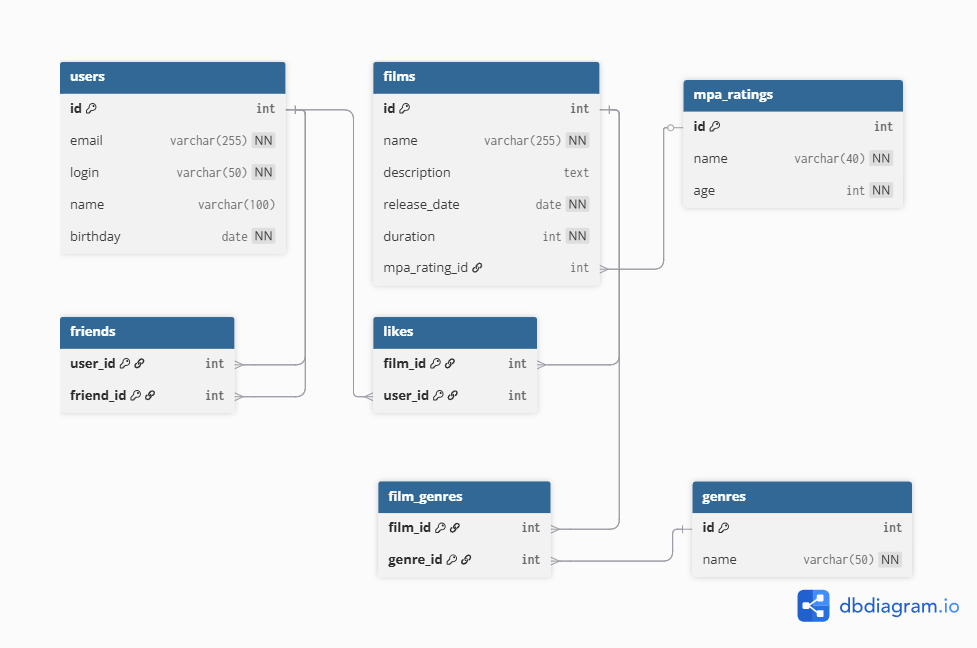
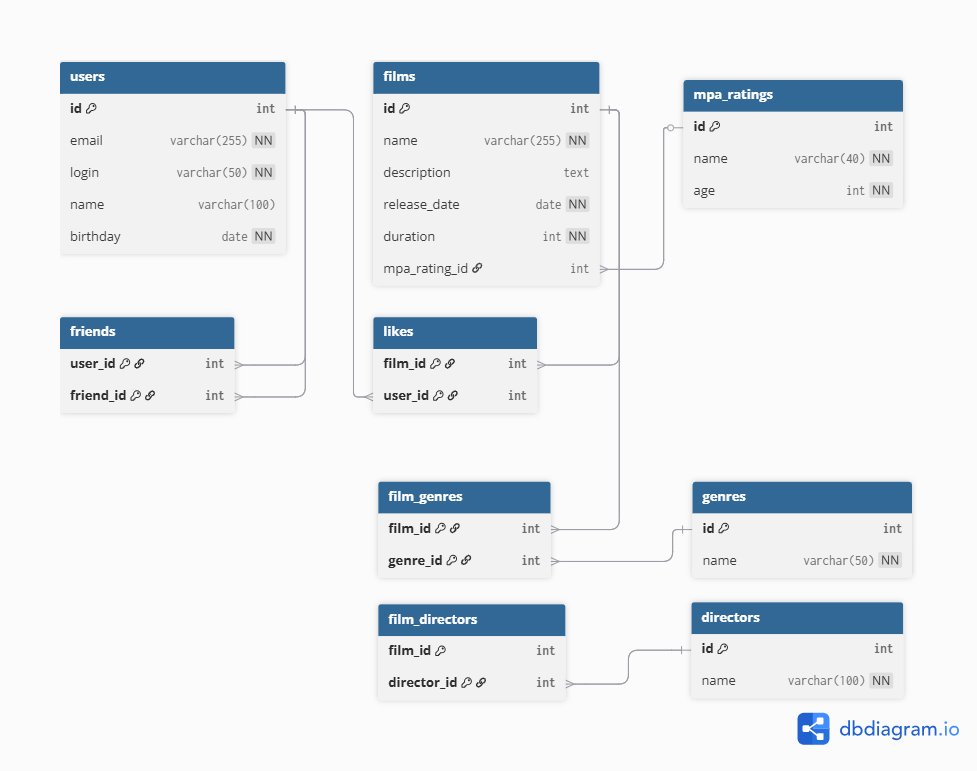
1. Добавление описание таблиц в README.md, обновлена диаграмма png. 2. Добавлена схема с dbdiagram.io, чтобы было удобнее изменять в будущем.

diff --git a/README.md b/README.md
@@ -17,9 +17,11 @@
 - **genres** — Жанры фильмов.
 - **mpa_ratings** — Возрастные рейтинги.
 - **film_genres** — Жанры фильмов.
-- **friends** — Дружба между пользователями. Дружба является
+- **friends** — Дружба между пользователями. Дружба является.
 подтвержденной, если пользователи в друзьях друг у друга.
 - **likes** — Лайки пользователей для фильмов.
+- **directors** - Режиссеры.
+- **film_directors** - Режиссеры фильмов.
 
 ---
 
